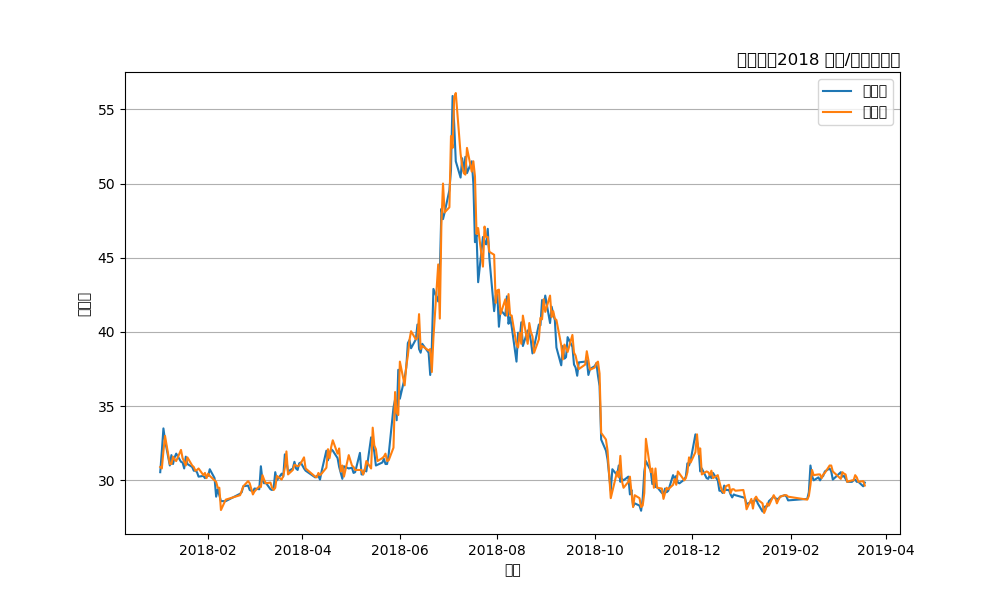
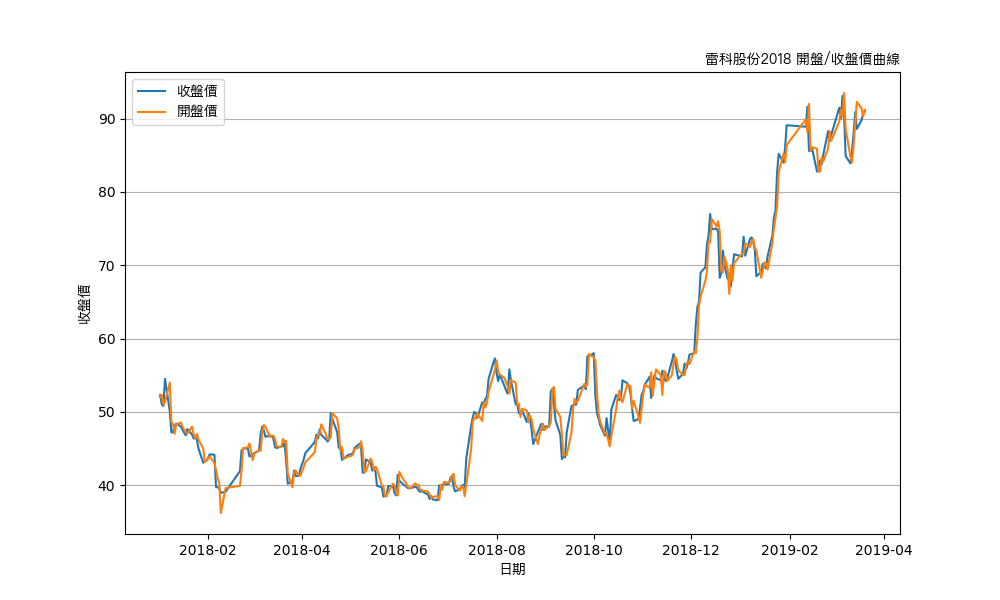
nothing

diff --git a/matplotlib_PyQt5.py b/matplotlib_PyQt5.py
@@ -1,0 +1,86 @@
+import twstock
+# print(twstock.codes)
+from pyplotz.pyplotz import PyplotZ
+from pyplotz.pyplotz import plt
+# import matplotlib.pyplot as plt
+import pandas as pd
+
+import sys
+ 
+from PyQt5 import QtCore
+from PyQt5.QtWidgets import QApplication, QMainWindow, QMenu, QVBoxLayout, QSizePolicy, QMessageBox, QWidget, QPushButton
+from PyQt5.QtGui import QIcon
+import numpy as np
+from scipy import interpolate
+ 
+from matplotlib.backends.backend_qt5agg import FigureCanvasQTAgg as FigureCanvas
+from matplotlib.figure import Figure
+# import matplotlib.pyplot as plt
+ 
+import random
+ 
+class App(QMainWindow):
+ 
+    def __init__(self):
+        super().__init__()
+        self.left = 10
+        self.top = 10
+        self.title = 'PyQt5 matplotlib example - pythonspot.com'
+        self.width = 640
+        self.height = 400
+        self.initUI()
+ 
+    def initUI(self):
+        self.setWindowTitle(self.title)
+        self.setGeometry(self.left, self.top, self.width, self.height)
+ 
+        m = PlotCanvas(self, width=5, height=4)
+        m.move(0,0)
+ 
+        button = QPushButton('PyQt5 button', self)
+        button.setToolTip('This s an example button')
+        button.move(500,0)
+        button.resize(140,100)
+ 
+        self.show()
+ 
+ 
+class PlotCanvas(FigureCanvas):
+    def __init__(self, parent=None,width=5, height=4, dpi=100):
+        fig=Figure(figsize=(width,height),dpi=dpi)
+        self.axes = fig.add_subplot(111)# 调用figure下面的add_subplot方法，类似于matplotlib.pyplot下面的subplot方法
+        FigureCanvas.__init__(self,fig)
+        self.setParent(parent)
+        FigureCanvas.setSizePolicy(self,
+                                   QSizePolicy.Expanding,
+                                   QSizePolicy.Expanding)
+        FigureCanvas.updateGeometry(self)
+        self.test()
+
+    def test(self):
+        self.init_plot()
+        #每秒更新一次图像
+        timer = QtCore.QTimer(self)
+        timer.timeout.connect(self.update_figure)
+        timer.start(1000)
+
+    def init_plot(self):
+        x=[1,2,3,4,5,6,7,8,9]
+        y=[23,21,32,13,3,132,13,3,1]
+        self.axes.plot(x, y)
+
+    def update_figure(self):
+        x=np.linspace(0,10,10)
+        y = [random.randint(0, 10) for i in range(10)]
+        xx=np.linspace(0,10)
+        f=interpolate.interp1d(x,y,'quadratic')#产生插值曲线的函数
+        yy=f(xx)
+        self.axes.cla()
+        self.axes.plot(x,y,'o',xx,yy)
+        self.draw()
+ 
+if __name__ == '__main__':
+    app = QApplication(sys.argv)
+    ex = App()
+    sys.exit(app.exec_())
+

diff --git a/test.py b/test.py
@@ -1,3 +1,5 @@
+#coding=utf-8
+
 ### TEST PyQt5 ###
 # import sys
 # from PyQt5 import QtCore, QtGui, QtWidgets
@@ -14,21 +16,31 @@
 ### TEST twstock ###
 import twstock
 # print(twstock.codes)
-import matplotlib.pyplot as plt
+from pyplotz.pyplotz import PyplotZ
+from pyplotz.pyplotz import plt
+# import matplotlib.pyplot as plt
 import pandas as pd
 
-stock_6207 = twstock.Stock('6207')
-stock_6207_2018 = stock_6207.fetch_from(2018,1)     # 獲取 2018 年 01 月至今日之股票資料
-stock_6207_2018_pd = pd.DataFrame(stock_6207_2018)
-stock_6207_2018_pd = stock_6207_2018_pd.set_index('date')
+stock_2317 = twstock.Stock('2317')
+stock_2317_2019 = stock_2317.fetch_from(2019,3)     # 獲取 2019 年 01 月至今日之股票資料
+stock_2317_2019_pd = pd.DataFrame(stock_2317_2019)
+stock_2317_2019_pd = stock_2317_2019_pd.set_index('date')
 
+stock_4938 = twstock.Stock('4938')
+stock_4938_2019 = stock_4938.fetch_from(2019,3)     # 獲取 2019 年 01 月至今日之股票資料
+stock_4938_2019_pd = pd.DataFrame(stock_4938_2019)
+stock_4938_2019_pd = stock_4938_2019_pd.set_index('date')
+
+pltz = PyplotZ() # create an instance
+pltz.enable_chinese()
 fig = plt.figure(figsize=(10, 6))
-plt.plot(stock_6207_2018_pd.close, '-' , label="收盤價")
-plt.plot(stock_6207_2018_pd.open, '-' , label="開盤價")
-plt.title('雷科股份2018 開盤/收盤價曲線',loc='right')
+pltz.plot(stock_2317_2019_pd.close, '-' , label='鴻海')
+pltz.plot(stock_4938_2019_pd.close, '-' , label='和碩')
+# pltz.plot(stock_2317_2019_pd.open, '-' , label='開盤價')
+pltz.title('收盤價曲線',loc='right')
 # loc->title的位置
-plt.xlabel('日期')
-plt.ylabel('收盤價')
+pltz.xlabel('日期')
+pltz.ylabel('收盤價')
 plt.grid(True, axis='y')
-plt.legend()
-fig.savefig('day20_01.png')
+pltz.legend()
+fig.savefig('test.png')
